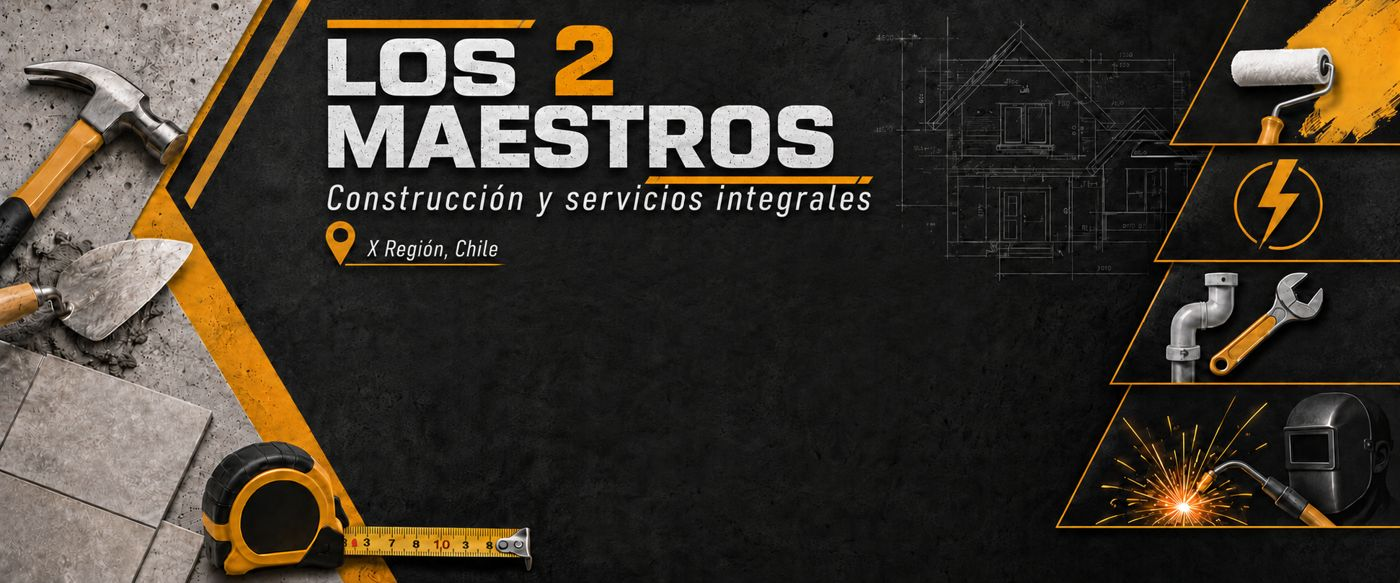
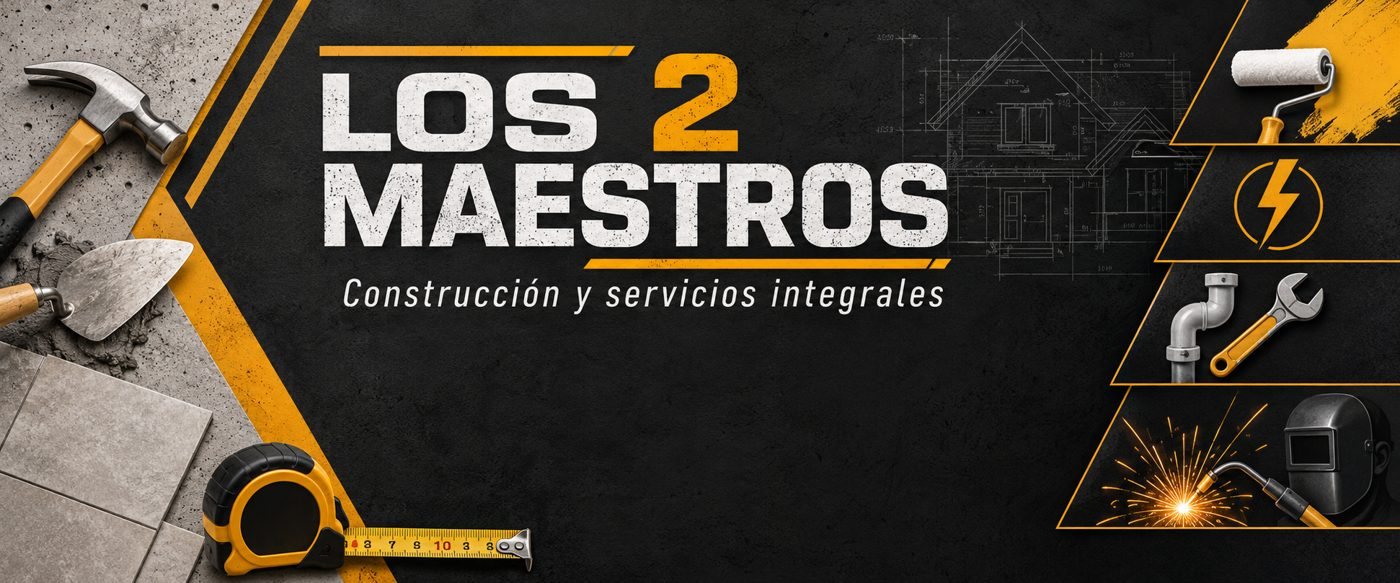
Add files via upload

diff --git a/index.html b/index.html
@@ -22,7 +22,7 @@
     correo: "[email redacted]",
     instagram: "https://www.instagram.com/los2maestros/",
     facebook: "https://www.facebook.com/profile.php?id=61591220507969&locale=es_LA",
-    mensajeWhatsapp: "Hola! Vi su Instagram y quiero cotizar un trabajo 🛠️",
+    mensajeWhatsapp: "Hola, quiero cotizar un trabajo 🛠️",
 
     // GALERÍA: agrega aquí el nombre de cada foto que subas a la carpeta /fotos
     // Ejemplo: si subes fotos/trabajo1.jpg, agrégalo a la lista de abajo.